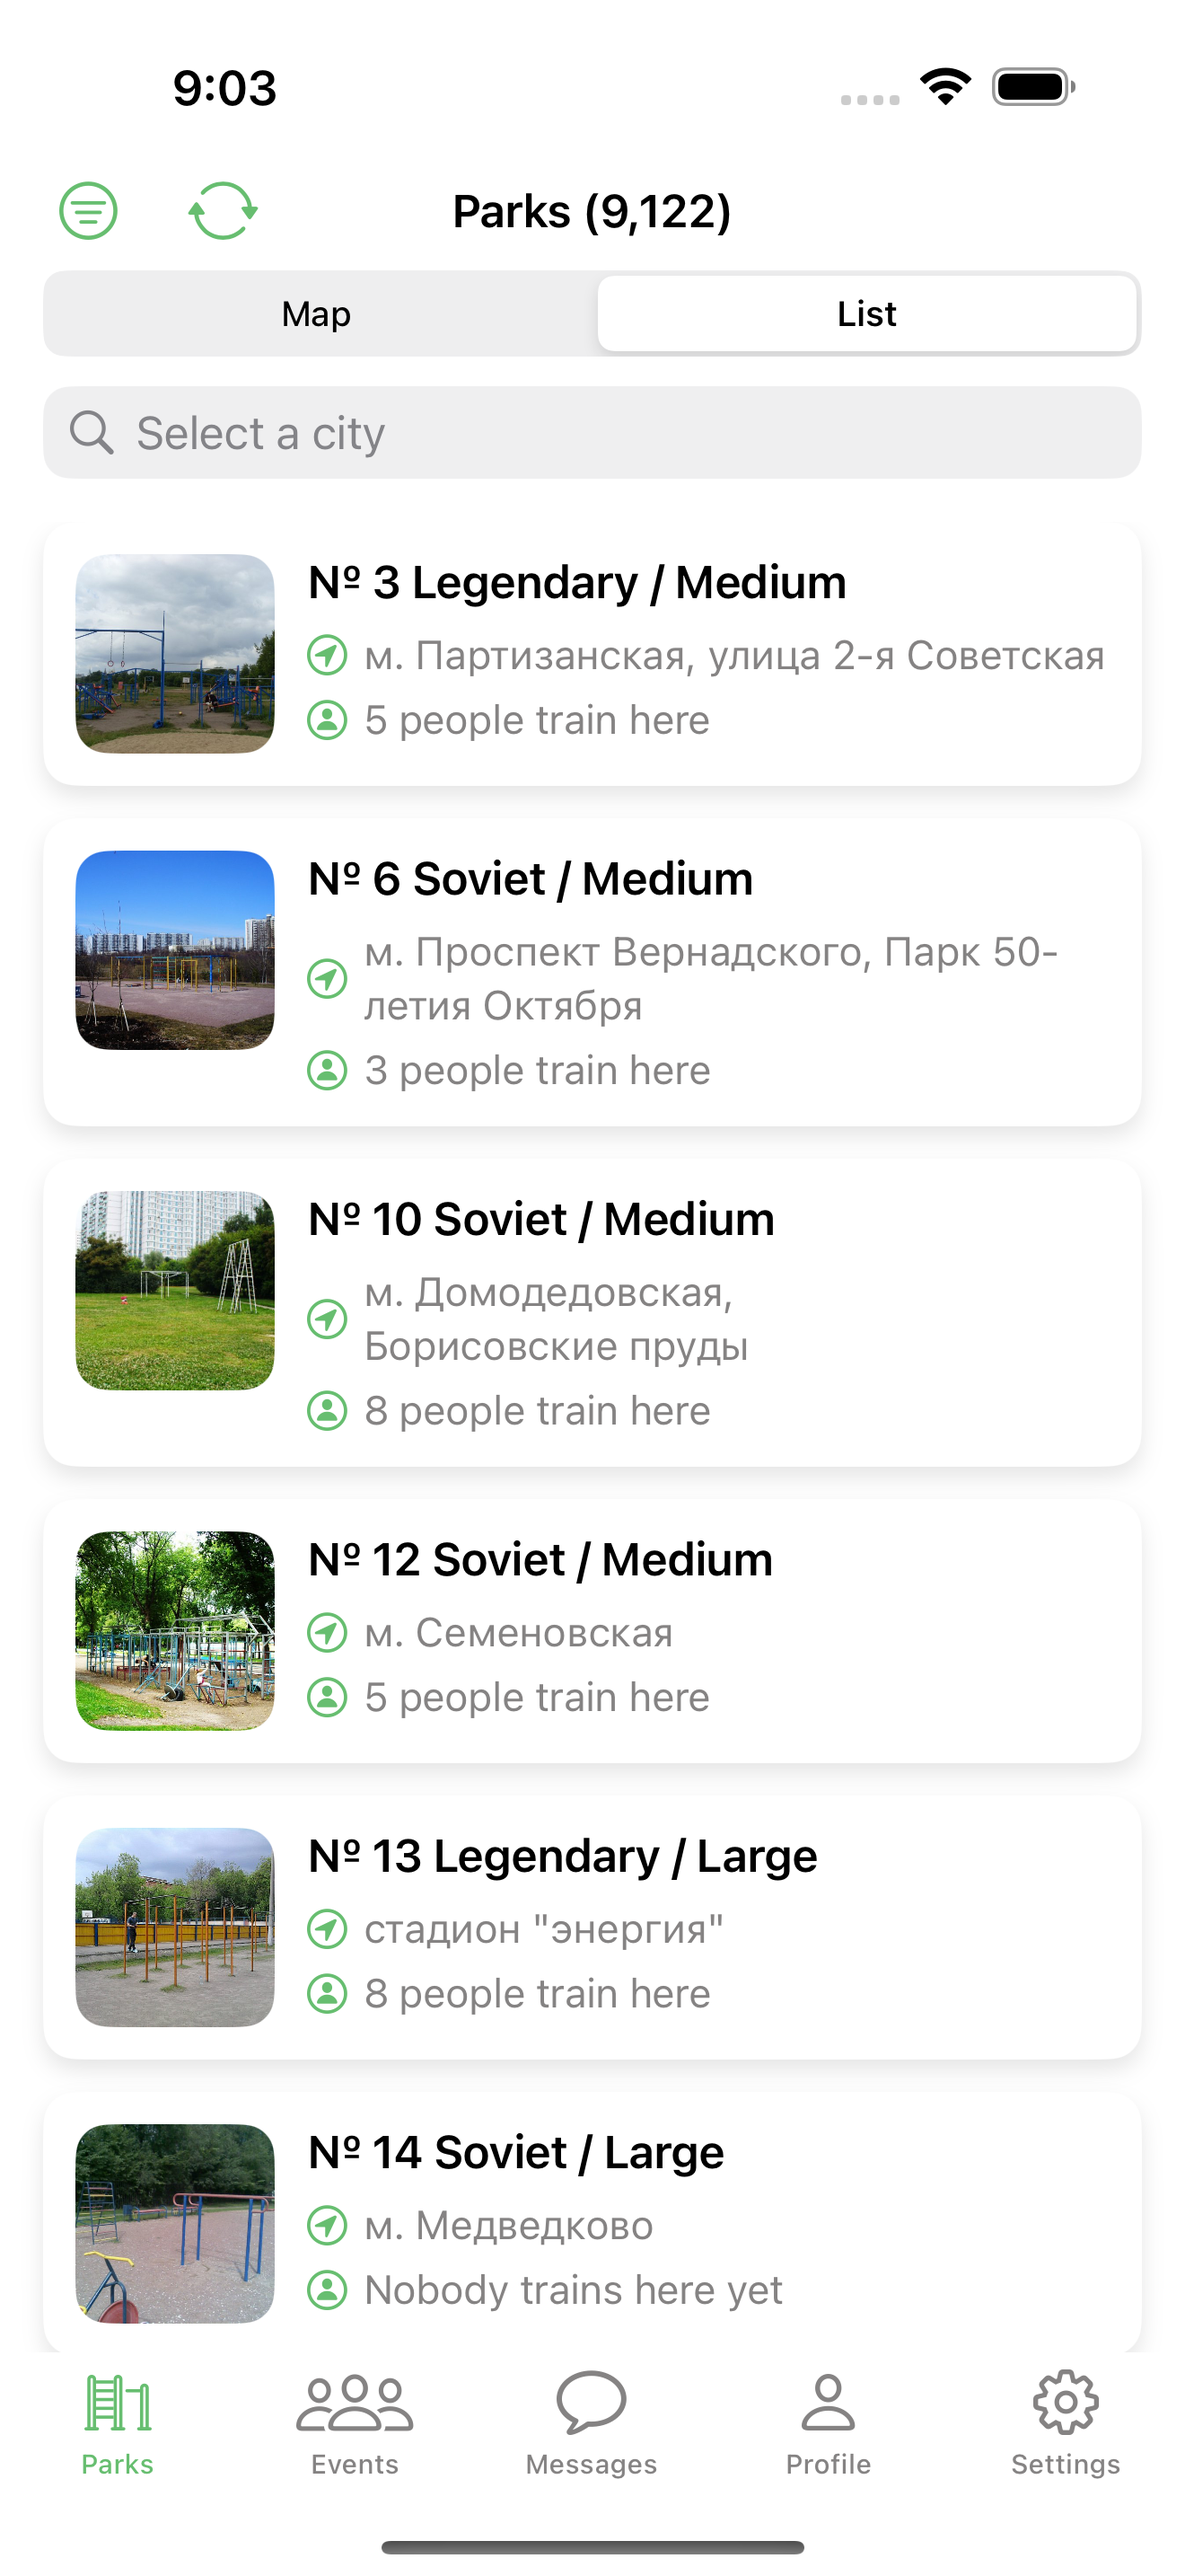
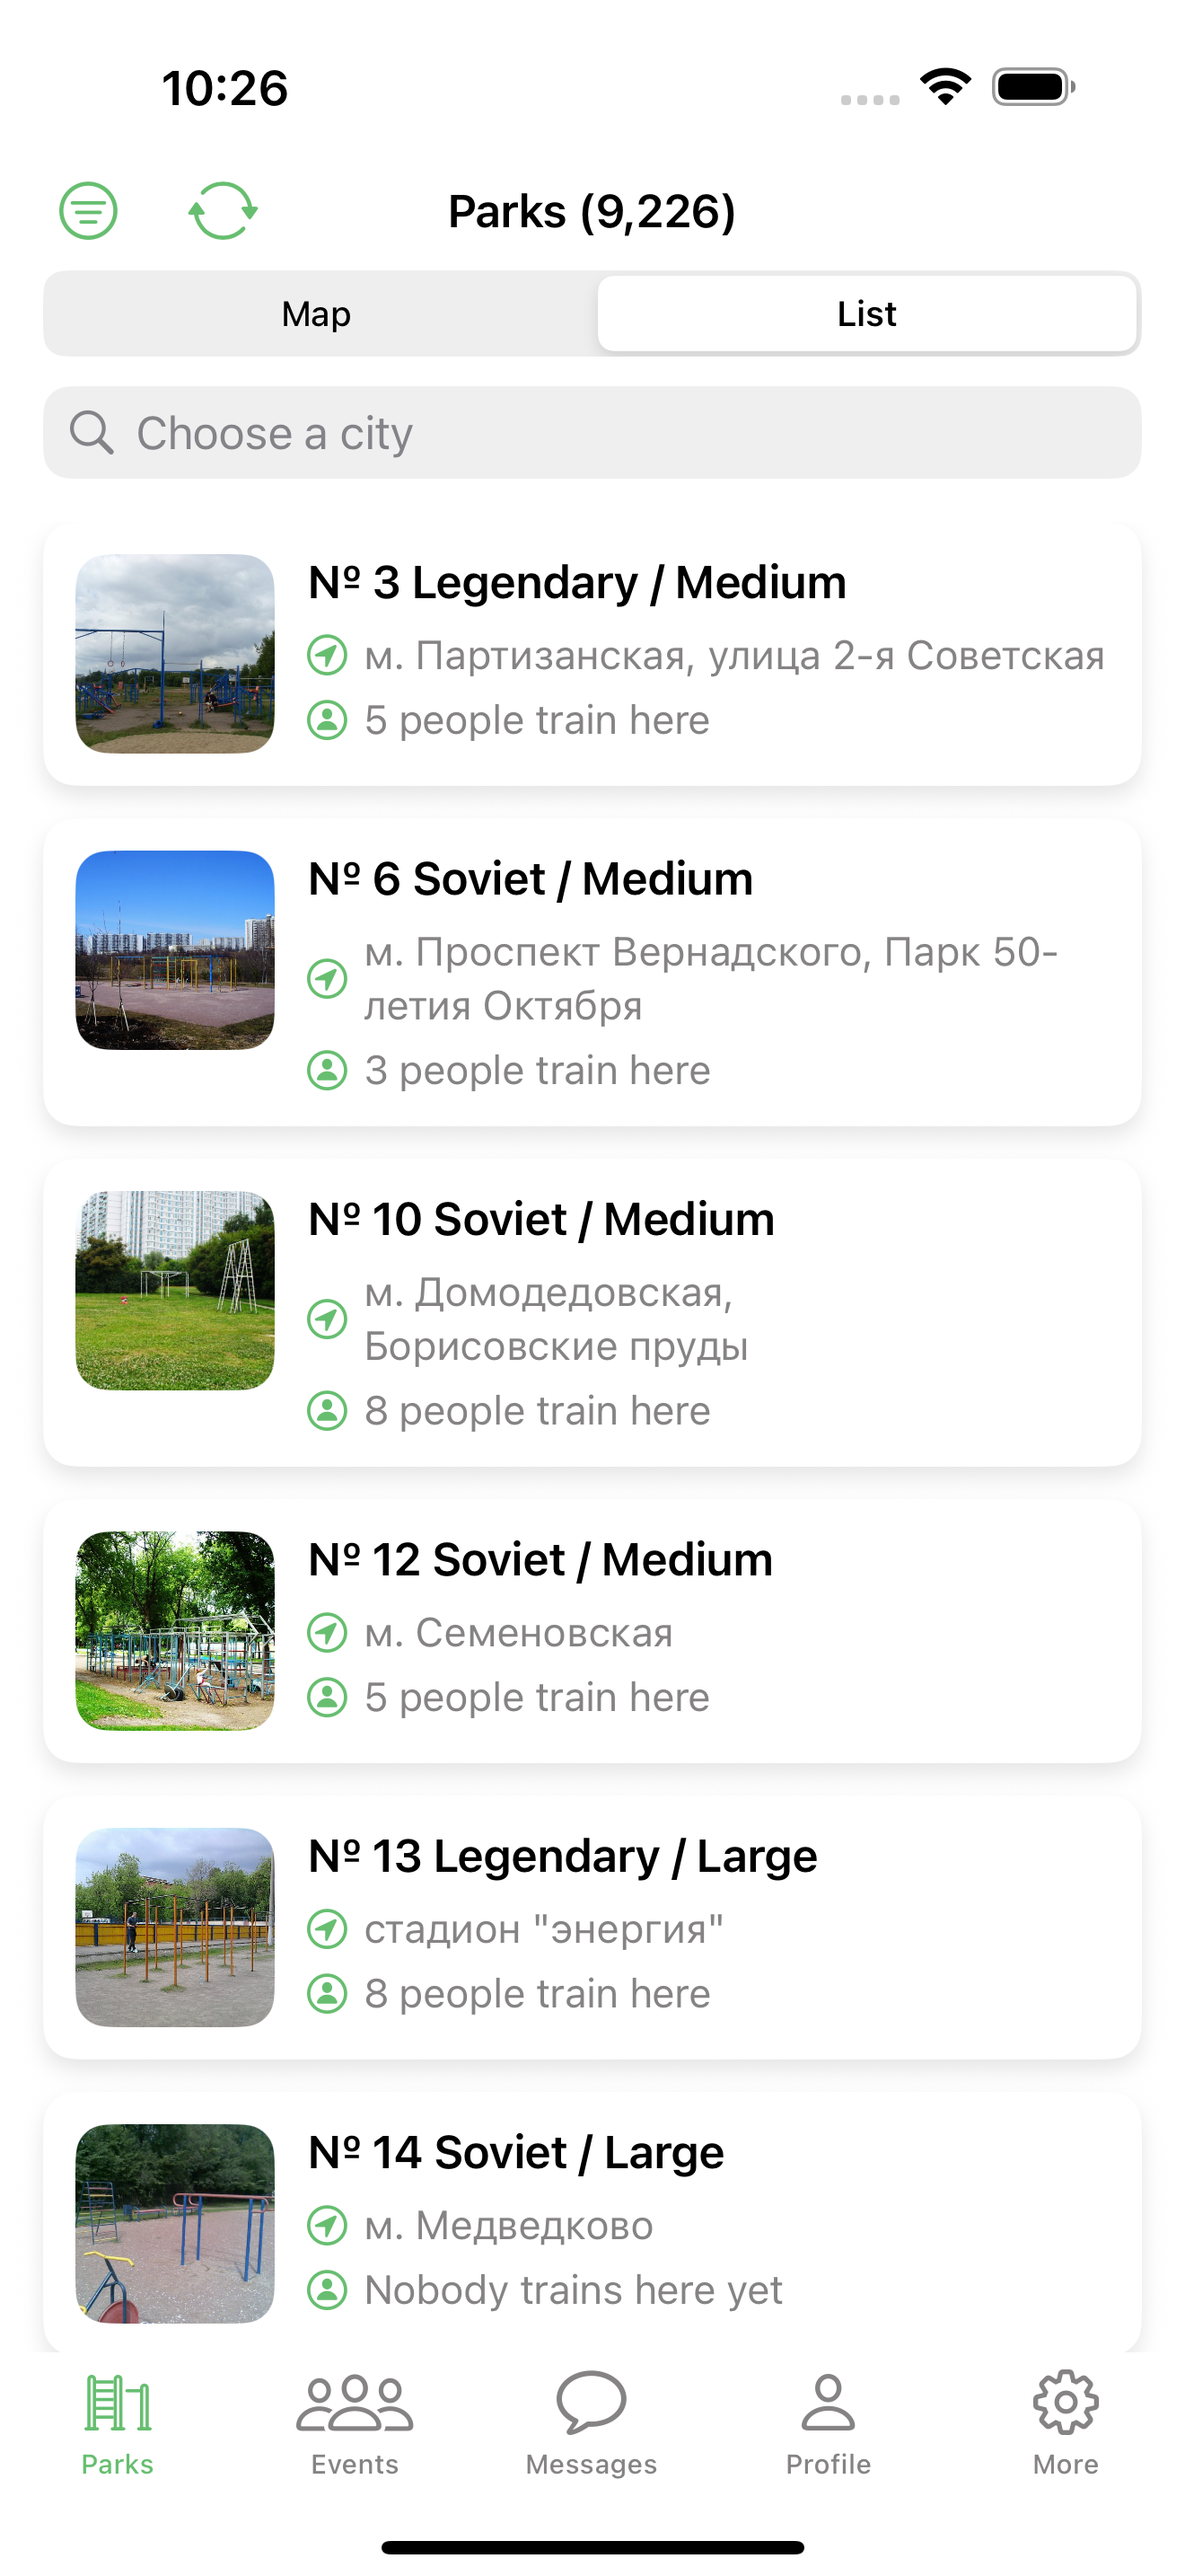
Обновил скриншоты и ридми
Вручную загружать скриншоты для трех девайсов долго, поэтому оставил 1 девайс

diff --git a/README.md b/README.md
@@ -148,23 +148,21 @@ make update
 ### Скриншоты  
 1. Генерируем скриншоты при помощи `Fastlane` ([документация](https://docs.fastlane.tools/getting-started/ios/setup/))
 2. Настройки для генерации скриншотов находятся в [Snapfile](./fastlane/Snapfile) ([документация](https://docs.fastlane.tools/actions/snapshot/))
-3. Генерация скриншотов выполняется командой в папке с проектом (команда может меняться в зависимости от способа установки `Ruby`/`fastlane`)
+3. Для генерации скриншотов нужно предварительно [настроить проект](#установка-и-настройка-проекта)
+4. Генерация скриншотов выполняется командой:
 ```shell
 make screenshots
 ```
-4. Для генерации скриншотов **необходимо наличие в Xcode симуляторов с нужной версией iOS** в соответствие с настройками в [Snapfile](./fastlane/Snapfile)
-5. Если тесты падают с ошибкой при запуске через `fastlane`, нужно убедиться, что при ручном запуске тестов из `Xcode` они успешно проходят во всех локализациях, используемых для создания скриншотов
-6. Готовые скриншоты сохраняются в папке [screenshots](./fastlane/screenshots)
+5. Для генерации скриншотов **необходимо наличие в Xcode симуляторов с нужной версией iOS** в соответствие с настройками в [Snapfile](./fastlane/Snapfile)
+6. Если тесты падают с ошибкой при запуске через `fastlane`, нужно убедиться, что при ручном запуске тестов из `Xcode` они успешно проходят во всех локализациях, используемых для создания скриншотов
+7. Готовые скриншоты сохраняются в папке [screenshots](./fastlane/screenshots)
 
 | Список площадок | Площадка | Прошедшие мероприятия | Мероприятие | Профиль |
 | --- | --- | --- | --- | --- |
 | <img src="./fastlane/screenshots/ru/iPhone 16 Pro Max-1-sportsGroundsList.png"> | <img src="./fastlane/screenshots/ru/iPhone 16 Pro Max-2-sportsGroundDetails.png"> | <img src="./fastlane/screenshots/ru/iPhone 16 Pro Max-3-pastEvents.png"> | <img src="./fastlane/screenshots/ru/iPhone 16 Pro Max-4-eventDetails.png"> | <img src="./fastlane/screenshots/ru/iPhone 16 Pro Max-5-profile.png"> |
 
 #### Модели девайсов, используемые для скриншотов
-По состоянию на 2025 год Apple берет за основу скриншоты для диагонали 6.9 (или 6.7) дюймов и масштабирует их под все остальные размеры экранов, то есть при желании можно использовать для скриншотов только один девайс.
-Поскольку в этом проекте подключен и работает `fastlane snapshot`, используем три девайса:
+По состоянию на 2025 год Apple берет за основу скриншоты для диагонали 6.9 (или 6.7) дюймов и масштабирует их под все остальные размеры экранов, то есть можно использовать для скриншотов только один девайс:
 - iPhone 16 Pro Max
-- iPhone 16 pro
-- iPhone SE (3rd generation)
 
 Список всех существующих девайсов есть [тут](https://www.ios-resolution.com).
